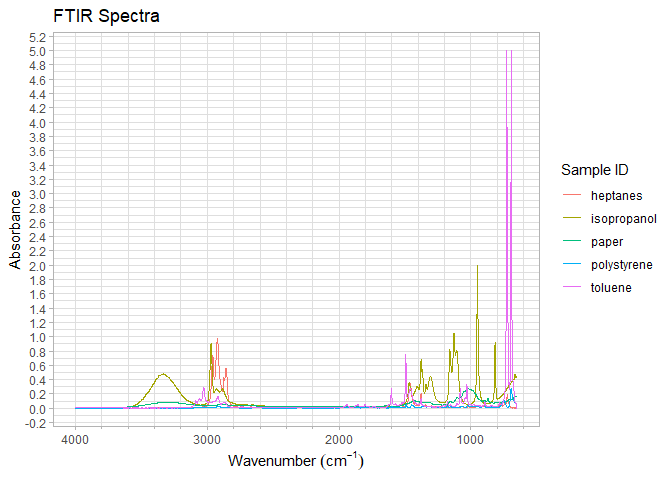
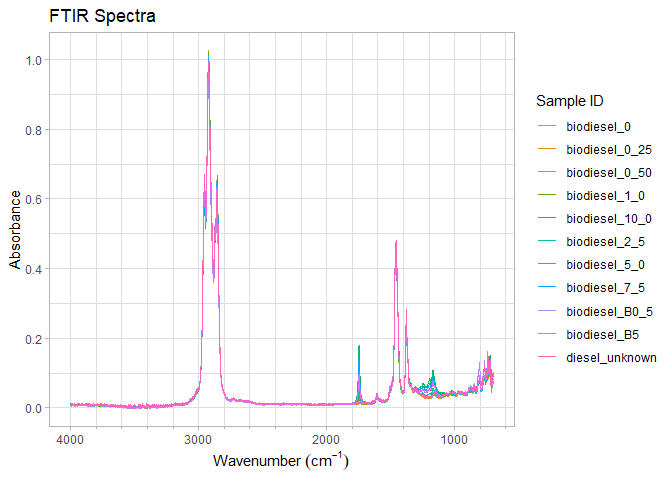
Readme Updates

Changed region(s): [[0.0312, 0.0, 1.0, 0.9688], [0.8438, 0.6875, 0.9688, 0.7812], [0.8438, 0.5938, 0.9688, 0.6562]]

diff --git a/README.md b/README.md
@@ -33,7 +33,8 @@ FTIR spectra:
 
 ``` r
 library(PlotFTIR)
-plot_ftir(sample_spectra)
+biodiesel_plot <- plot_ftir(biodiesel)
+biodiesel_plot
 ```
 
 <img src="man/figures/README-basic_plot_en-1.png" width="100%" />
@@ -42,8 +43,7 @@ We can also plot spectra in a stacked/offset manner instead of overlaid:
 
 ``` r
 # Generate a plot
-biodiesel_plot <- plot_ftir(biodiesel)
-biodiesel_plot
+plot_ftir_stacked(biodiesel)
 ```
 
 <img src="man/figures/README-stack_plot_en-1.png" width="100%" />
@@ -120,6 +120,11 @@ head(biodiesel_transm)
 #> 5   708.1942      87.47159 biodiesel_0
 #> 6   710.0579      87.77362 biodiesel_0
 ```
+
+## Documentation
+
+More information on all functions is available online at
+<https://plotftir.pages.dev/>.
 
 ## Code of Conduct
 
@@ -243,6 +248,11 @@ head(biodiesel_transm)
 #> 5   708.1942      87.47159 biodiesel_0
 #> 6   710.0579      87.77362 biodiesel_0
 ```
+
+## Documentation
+
+Plus d’informations sur toutes les fonctions sont disponibles en ligne
+sur <https://plotftir.pages.dev/>.
 
 ## Code de conduite
 
